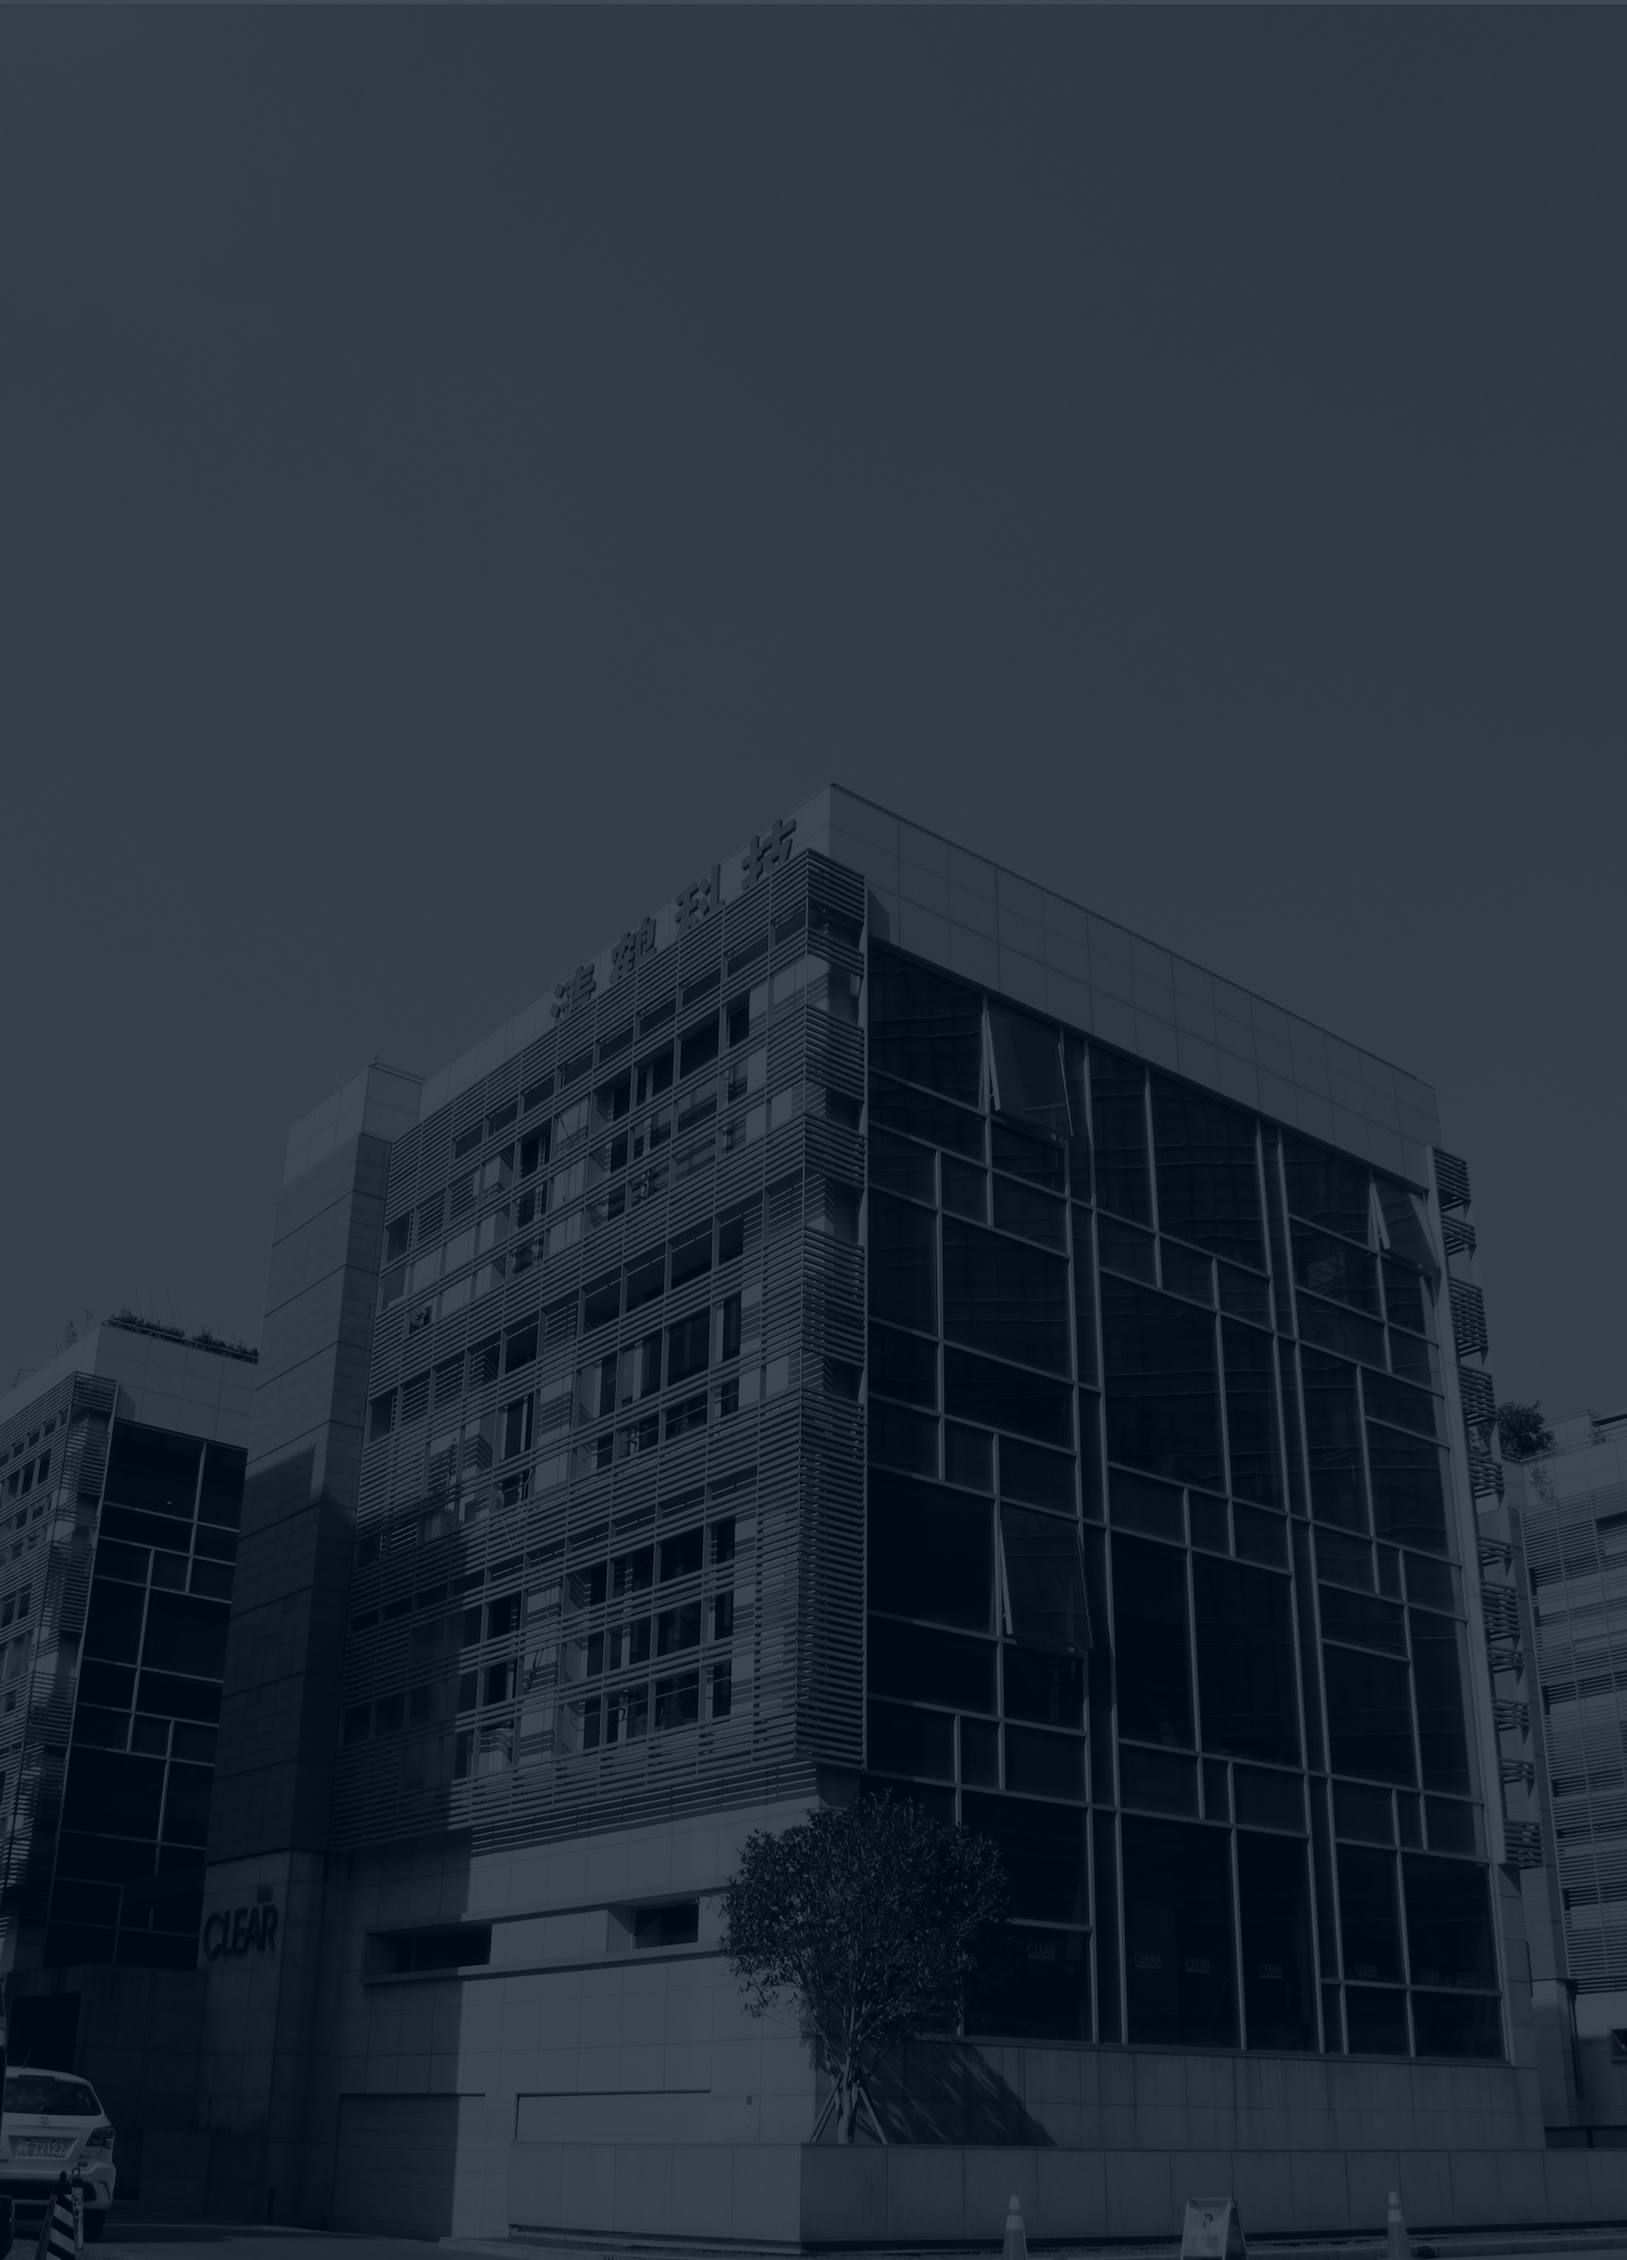
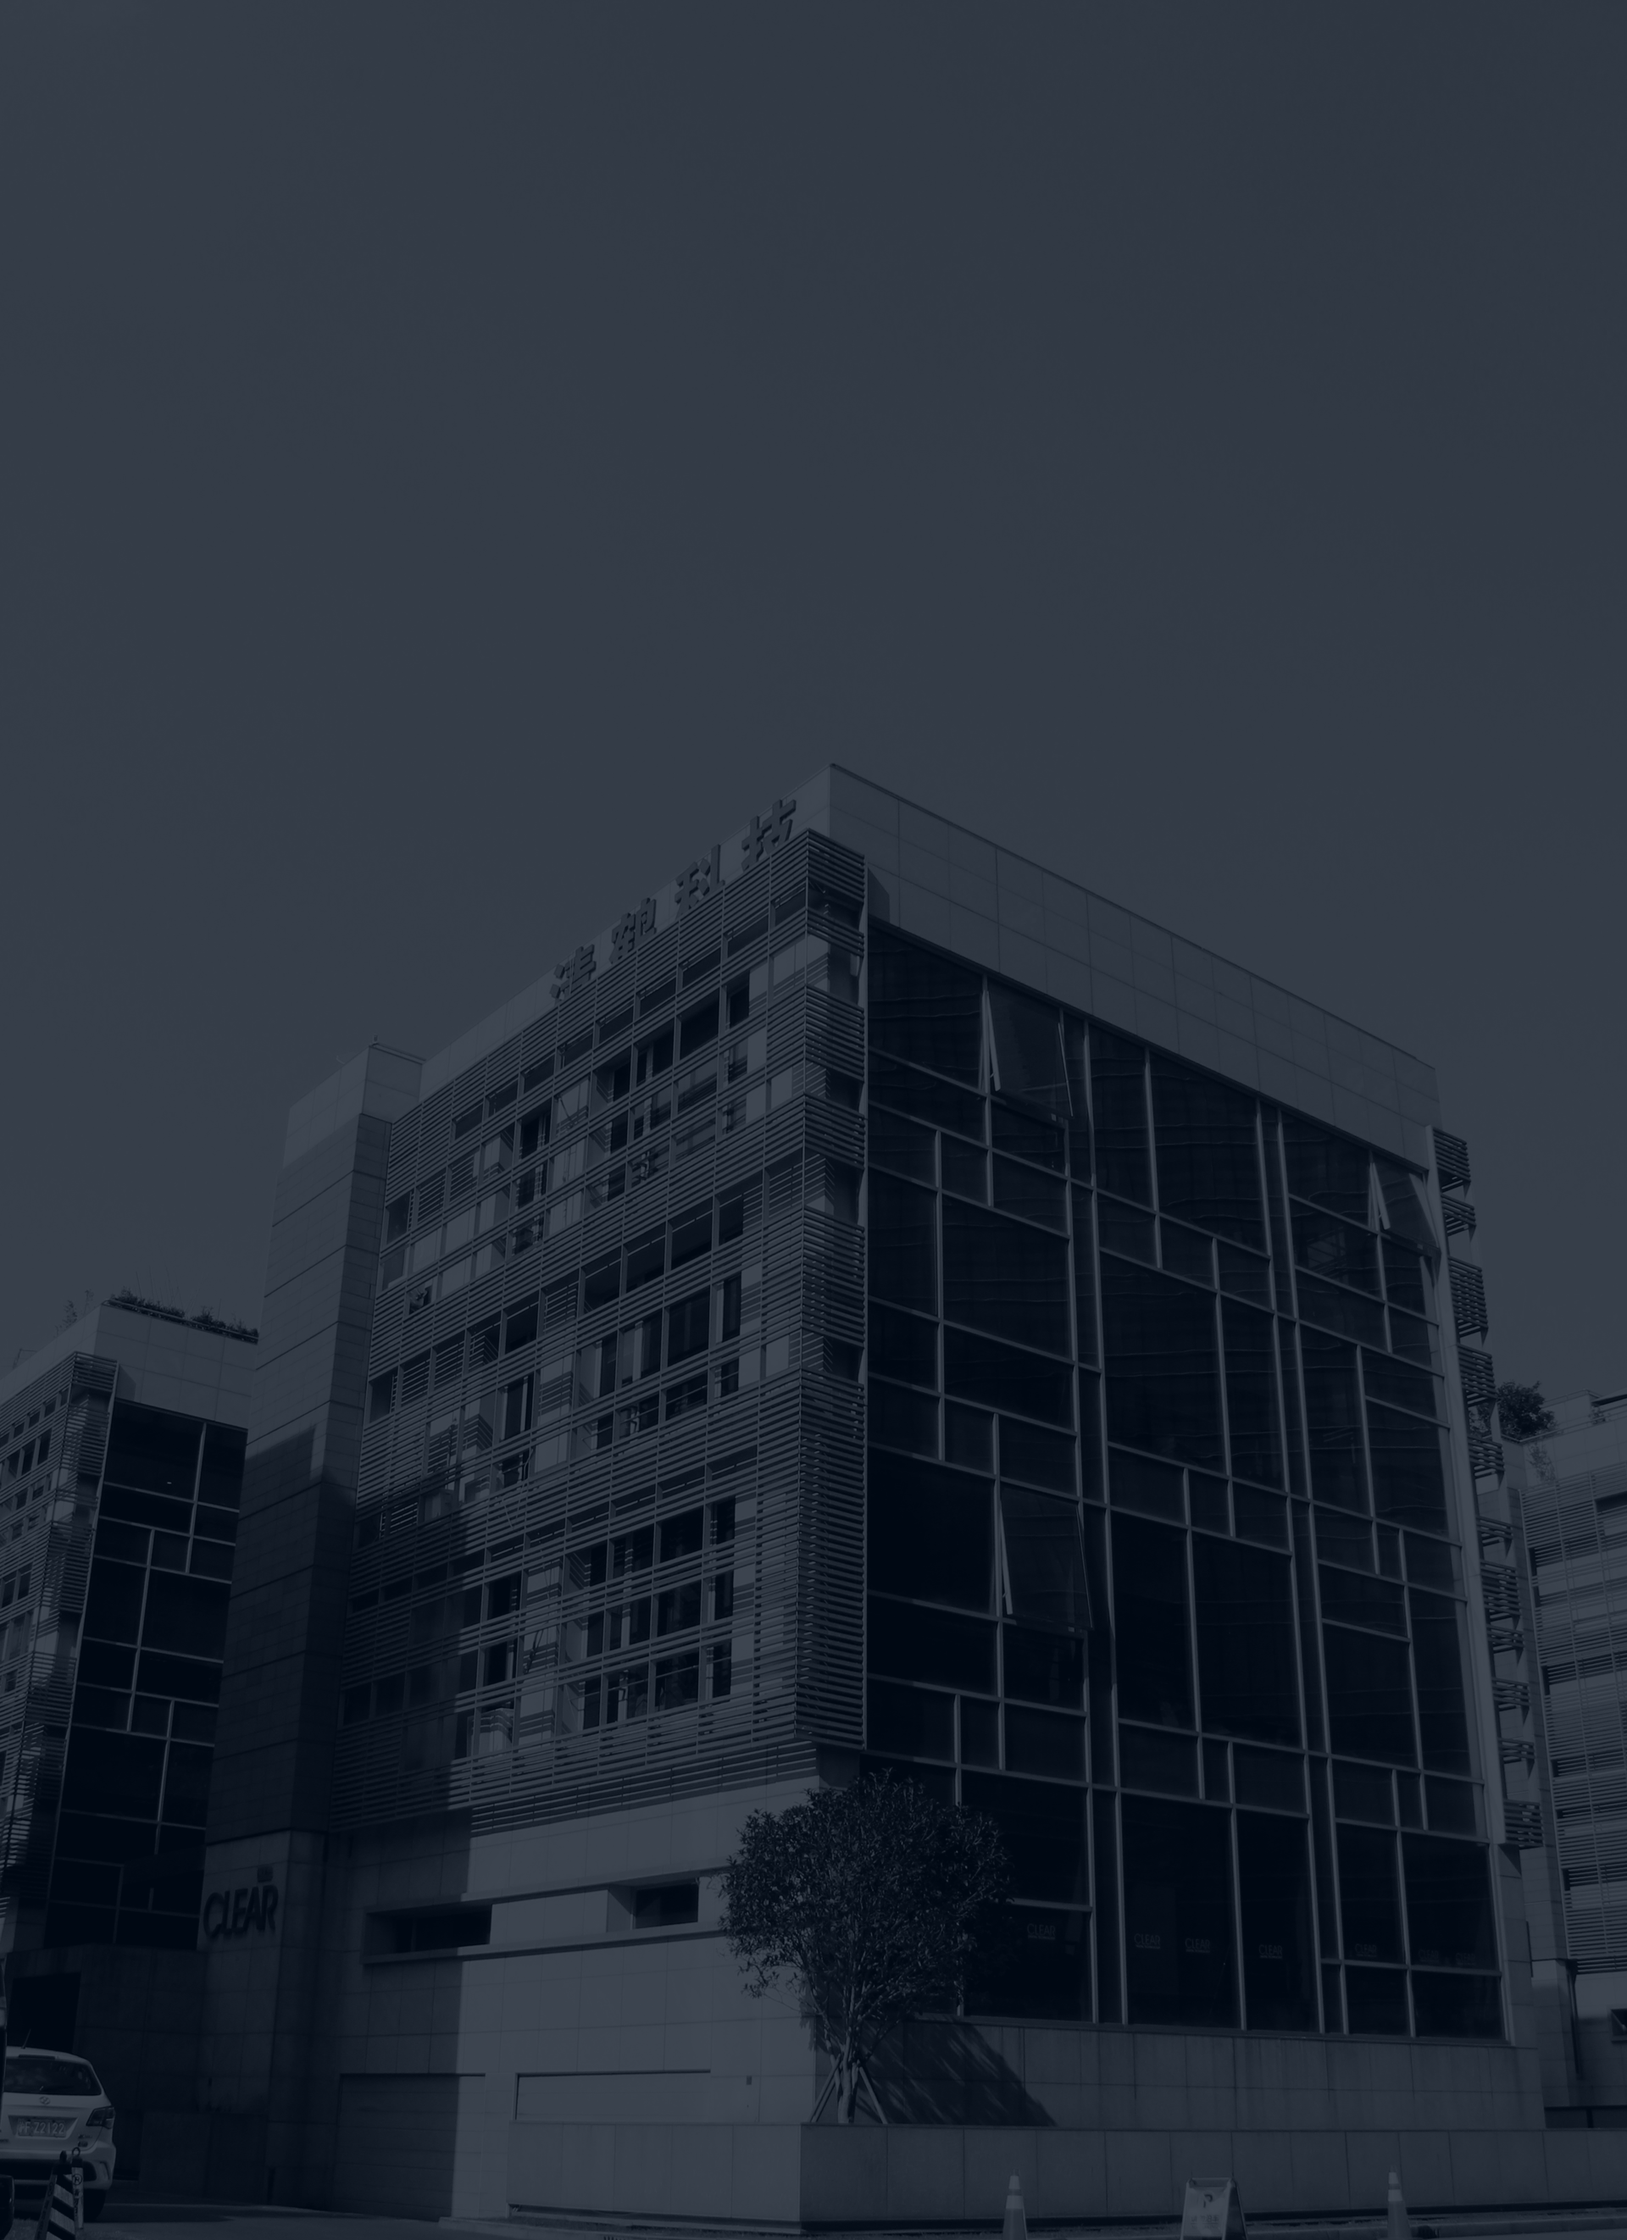
about 页面 contact 页面修改小bug

diff --git a/about.html b/about.html
@@ -34,7 +34,8 @@
 	<div class="fh5co-loader"></div>
 	
 	<div id="page">
-		<nav class="fh5co-nav" role="navigation">
+
+	<nav class="fh5co-nav" role="navigation">
 			<div class="container">
 				<div class="row">
 					<div class="col-xs-2">
@@ -59,18 +60,18 @@
 			</div>
 		</nav>
 
-	<header id="fh5co-header" class="fh5co-cover fh5co-cover-sm" role="banner">
+	<section id="fh5co-header" class="fh5co-cover fh5co-cover-sm" role="banner">
 		<div class="container">
 			<div class="row">
 				<div class="col-md-6 text-left">
-					<div class="display-t" style="height: 300px;">
-						<div class="display-tc animate-box" data-animate-effect="fadeIn" style="vertical-align: bottom;height: 300px;">
+					<div class="display-t">
+						<div class="display-tc animate-box" data-animate-effect="fadeIn" >
 							<h1 style="text-transform:none; font-weight: 100;">Company Overview</h1>
 							<hr class="divider">
 						</div>
 					</div>
 				</div>
-				<div class="col-md-12 text-left text-white">
+				<div class="col-md-12 text-left text-white text-justify">
 					<p>Shanghai ClearTV Corp., Ltd.(Stock Code:834762), is a hi-tech enterprise which is specialized in
 						networking streaming media products and embedded software, providing professional smart screen cloud
 						technology for commercial business. Since the establishment, ClearTV has insisted “market as guidance,
@@ -111,7 +112,7 @@
 				</div>
 			</div>
 		</div>
-	</header>
+	</section>
 	
 	<div id="fh5co-about">
 		<div class="container">
@@ -132,8 +133,8 @@
 							<div class="row">
 								<div class="col col-md-3 col-sm-3 col-xs-3">2002-2005</div>
 								<div class="col col-md-9 col-sm-9 col-xs-9">
-								<span>Clear’s in its infancy stage and possess the core technologies of IPTV serverand
-									STB embedded software.</span>
+								<span>Clear was in its infancy stage and developed the core technologies of IPTV server and
+									software embedded in STB.</span>
 								</div>
 							</div>
 						</div>
@@ -145,7 +146,7 @@
 							<div class="row">
 								<div class="col col-md-3 col-md-push-9 col-sm-3 col-xs-3">2006.04</div>
 								<div class="col col-md-9 col-md-pull-3 col-sm-9 col-xs-9">
-								<span>Officially founded in Fu Dan University software industry park.</span>
+								<span>Officially founded in Fudan University software industry park.</span>
 								</div>
 							</div>
 						</div>
@@ -191,9 +192,9 @@
 					<div class="des-right col-md-6 col-md-push-6 text-left">
 						<div class="about-content">
 							<div class="row">
-								<div class="col col-md-3 col-md-push-9 col-sm-3 col-xs-3">2011.08</div>
+								<div class="col col-md-3 col-sm-3 col-xs-3">2011.08</div>
 								<div class="col col-md-9 col-sm-9 col-xs-9">
-									<span>Headquarter in Shanghai has moved to Zhangjiang High-tech park in Pudong area.</span>
+									<span>The headquarter in Shanghai has moved to Zhangjiang High-tech park in Pudong area.</span>
 								</div>
 							</div>
 						</div>
@@ -241,7 +242,7 @@
 							<div class="row">
 								<div class="col col-md-3 col-sm-3 col-xs-3">2014.09</div>
 								<div class="col col-md-9 col-sm-9 col-xs-9">
-									<span>Third subsidiary was founded in Suzhou, Suzhou province.</span>
+									<span>The third branch was founded in Suzhou, Jiangsu province.</span>
 								</div>
 							</div>
 						</div>
@@ -277,7 +278,7 @@
 							<div class="row">
 								<div class="col col-md-3 col-md-push-9 col-sm-3 col-xs-3">2015.05  </div>
 								<div class="col col-md-9 col-md-pull-3 col-sm-9 col-xs-9">
-									<span>Southwest office was founded to manage the business in Sichuan, Chongqing, Yunnan, Guizhou.</span>
+									<span>Southwest office was founded to manage the business in Sichuan, Chongqing, Yunnan and Guizhou.</span>
 								</div>
 							</div>
 						</div>
@@ -337,7 +338,7 @@
 							<div class="row">
 								<div class="col col-md-3 col-md-push-9 col-sm-3 col-xs-3">2015.12 </div>
 								<div class="col col-md-9 col-md-pull-3 col-sm-9 col-xs-9">
-									<span>Listed in New Three Board with stock code：834762.</span>
+									<span>Listed in New OTC Market with stock code：834762.</span>
 								</div>
 							</div>
 						</div>
@@ -361,7 +362,7 @@
 							<div class="row">
 								<div class="col col-md-3 col-sm-3 col-xs-3">2016.06</div>
 								<div class="col col-md-9 col-sm-9 col-xs-9">
-									<span>Total registered capital is 28.3 million.</span>
+									<span>Total registered capital is RMB28,300,000.</span>
 								</div>
 							</div>
 						</div>
@@ -375,21 +376,64 @@
 					<hr class="divider div-cer">
 				</div>
 			</div>
-			<div class="row">
-				<div class="col-md-6 col-sm-6 animate-box" data-animate-effect="fadeIn">
-					<div class="fh5co-staff">
-						<img class="image" src="images/about/about-pic01.png" >
+
+			<div class="row animate-box">
+				<div class="col-xs-6 col-sm-6 col-md-6 col-lg-6">
+					<button type="button" class="center-block certificate" data-toggle="modal" data-target="#Modal1">
+						<img class="img-responsive center-block" src="images/about/about-pic01.png" alt="">
+					</button>
+				</div>
+				<div class="col-xs-6 col-sm-6 col-md-6 col-lg-6">
+					<button type="button" class="center-block certificate" data-toggle="modal" data-target="#Modal2">
+						<img class="img-responsive center-block" src="images/about/about-pic02.png" alt="">
+					</button>
+				</div>
+
+			</div>
+
+			<!-- Certificate Modal 1 -->
+			<div class="modal fade bs-example-modal-lg" id="Modal1" tabindex="-1" role="dialog" aria-labelledby="myModalLabel" aria-hidden="true">
+				<div class="container" style="margin: 2em auto 1em auto;">
+					<div class="row">
+						<div class="iconbox" data-dismiss="modal">
+							<span class="close"></span>
+						</div>
 					</div>
 				</div>
-				<div class="col-md-6 col-sm-6 animate-box" data-animate-effect="fadeIn">
-					<div class="fh5co-staff">
-						<img class="image" src="images/about/about-pic02.png" >
+				<div class="modal-dialog">
+					<div class="modal-content">
+						<div class="modal-body">
+							<img class="img-responsive center-block" src="images/about/certificate2.jpg" alt="">
+						</div>
 					</div>
 				</div>
 			</div>
+			<!-- Certificate Modal 2 -->
+			<div class="modal fade bs-example-modal-lg" id="Modal2" tabindex="-1" role="dialog" aria-labelledby="myModalLabel" aria-hidden="true">
+				<div class="container" style="margin: 2em auto 1em auto;">
+					<div class="row">
+						<div class="iconbox" data-dismiss="modal">
+							<span class="close"></span>
+						</div>
+					</div>
+				</div>
+				<div class="modal-dialog">
+					<div class="modal-content">
+						<div class="modal-body">
+							<img class="img-responsive center-block" src="images/about/certificate1.jpg" alt="">
+						</div>
+					</div>
+				</div>
+			</div>
+
+
 		</div>
 	</div>
-		<footer><p class="text-center input-text"> © Shanghai ClearTV  Corp.</p></footer>
+		<footer id="footer-copyright">
+			<div class="col-md-12 text-center">
+				<small class="block">&copy; Shanghai ClearTV Corp.</small>
+			</div>
+		</footer>
 	</div>
 
 	<div class="gototop js-top">

diff --git a/css/about.css b/css/about.css
@@ -1,6 +1,7 @@
 /*background image*/
 #page {
-    background-image: url(../images/about/about-bg.png);
+
+    background: #313944 url(../images/about/about-bg.png) no-repeat center bottom;
 }
 
 #fh5co-header {
@@ -12,6 +13,27 @@
 }
 .container {
     position: relative;
+}
+
+.fh5co-nav {
+    position: relative;
+    margin-bottom: 5em;
+}
+
+.display-t, .display-tc {
+    height: auto !important;
+}
+
+
+p {
+    margin-bottom: 0;
+}
+
+/*手机端*/
+@media (max-width: 768px) {
+    h1 {
+        font-size: 20px !important;
+    }
 }
 
 @media (min-width: 992px) {
@@ -233,18 +255,59 @@
     }
 }
 
-
-.fh5co-staff .image {
-    margin-top: 57px;
-    width: 167px;
-    height: 217px;
-    -webkit-border-radius: 0;
-    -moz-border-radius: 0;
-    -ms-border-radius: 0;
-    border-radius: 0;
-}
-
 .div-cer {
     margin-bottom: 1.5em;
 }
 
+.certificate {
+    padding: 0;
+}
+
+.iconbox {
+    display: inline-flex;
+    flex-flow: row nowrap;
+    justify-content: center;
+    align-items: center;
+    float: right;
+    width: 40px;
+    height: 40px;
+    background: rgba(255,255,255,.8);
+    -webkit-border-radius: 50%;
+    -moz-border-radius: 50%;
+    border-radius: 50%;
+}
+
+.iconbox:hover {
+    background: rgba(255, 255, 255, 1);
+}
+.close {
+    position: relative;
+    width: 70%;
+    height: 70%;
+    overflow: hidden;
+}
+
+.close::before, .close::after {
+    content: '';
+    position: absolute;
+    width: 100%;
+    height: 3px;
+    top: 50%;
+    left: 0;
+    margin-top: -1px;
+    background: #000;
+}
+.close::before {
+    -webkit-transform: rotate(45deg);
+    -moz-transform: rotate(45deg);
+    -ms-transform: rotate(45deg);
+    -o-transform: rotate(45deg);
+    transform: rotate(45deg);
+}
+.close::after {
+    -webkit-transform: rotate(-45deg);
+    -moz-transform: rotate(-45deg);
+    -ms-transform: rotate(-45deg);
+    -o-transform: rotate(-45deg);
+    transform: rotate(-45deg);
+}

diff --git a/css/contact.css b/css/contact.css
@@ -57,7 +57,7 @@ body {
     top: 0;
     width: 100%;
     height: 100%;
-    background:url(../images/contact-head.png) no-repeat center center;
+    background: url(../images/contact-head.png) no-repeat center center;
     opacity: 0.25;
 }
 

diff --git a/contact.html b/contact.html
@@ -40,6 +40,7 @@
 
 <div id="page">
     <nav class="fh5co-nav" role="navigation">
+        <div class="head-bg"></div>
         <div class="container">
             <div class="row">
                 <div class="col-xs-2">
